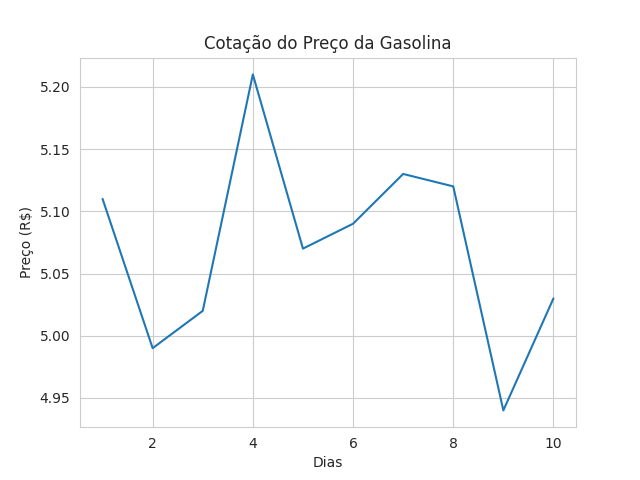
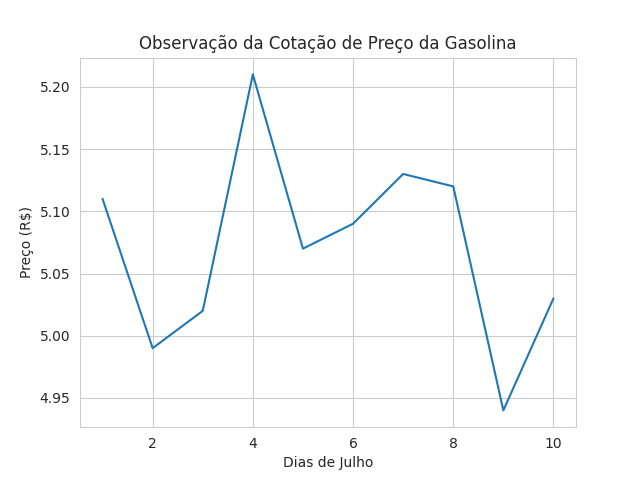
arquivos adicionados para o desafios 20

Changed region(s): [[0.2188, 0.0625, 0.8125, 0.125], [0.4375, 0.9375, 0.5938, 1.0]]

diff --git a/modulo_20/gasolina.py b/modulo_20/gasolina.py
@@ -10,7 +10,7 @@ df = pd.read_csv('./gasolina.csv')
 with sns.axes_style('whitegrid'):
   grafico = sns.lineplot(data=df, x='dia', y='venda', ci=None)
   # Inserindo as informações do título, e legenda dos eixos (x,y):
-  grafico.set(title='Cotação do Preço da Gasolina', xlabel='Dias', ylabel='Preço (R$)')
+  grafico.set(title='Observação da Cotação de Preço da Gasolina', xlabel='Dias de Julho', ylabel='Preço (R$)')
   grafico.get_legend()
   #Salvando o gráfico em um arquivo de imagem:
   grafico.get_figure().savefig('gasolina.png')
